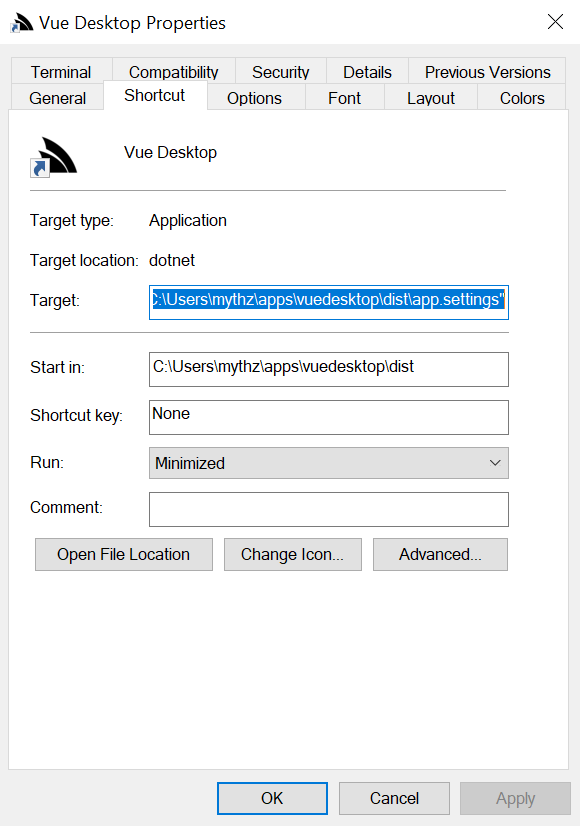
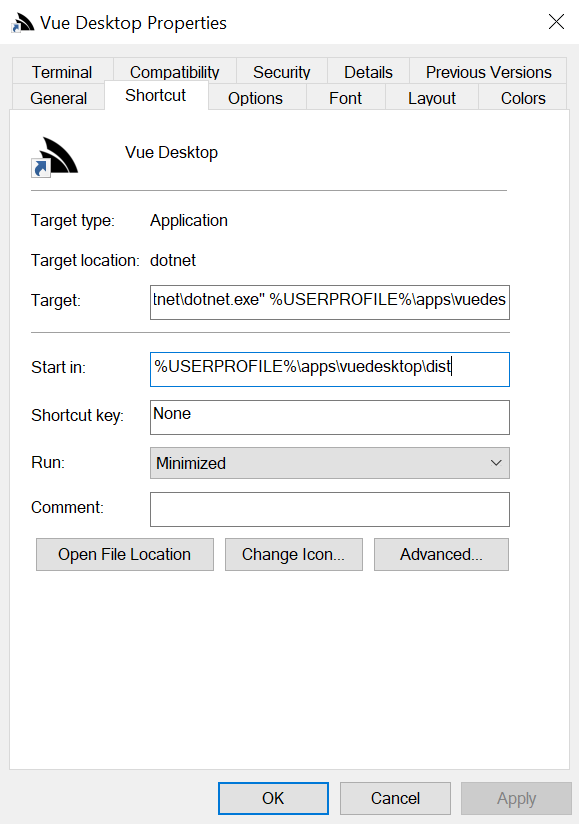
Update docs

diff --git a/docs/_documentation/app-tool.md b/docs/_documentation/app-tool.md
@@ -868,7 +868,8 @@ you can also bundle & distribute the app tool with your App to allow it to be la
     $ xcopy /E <project-path>\dist dist\ && cd dist
     $ app --copy-self app
     $ app shortcut -target "C:\Program Files\dotnet\dotnet.exe" ^
-      -arguments "^%USERPROFILE^%\apps\vuedesktop\app\app.dll ^%USERPROFILE^%\apps\vuedesktop\dist\app.settings"
+      -arguments "^%USERPROFILE^%\apps\vuedesktop\app\app.dll ^%USERPROFILE^%\apps\vuedesktop\dist\app.settings" ^
+      -workdir "^%USERPROFILE^%\apps\vuedesktop\dist"
 
 Escaping `^%` will preserve the `%USERPROFILE%` environment variable within the shortcut, without it the shortcut will include your resolved home dir in its path.
 
